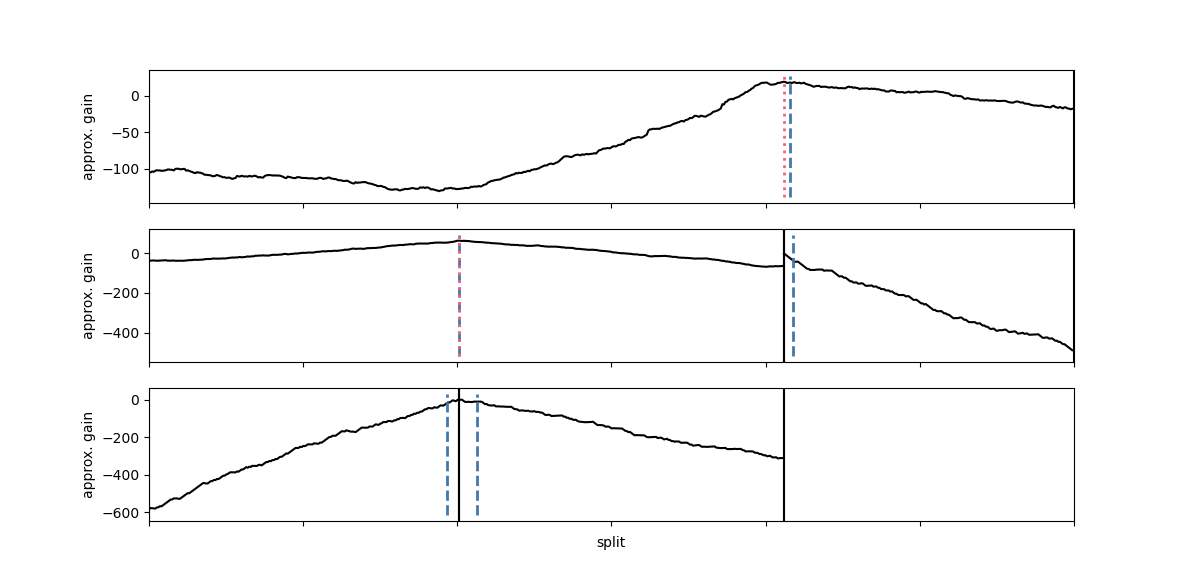
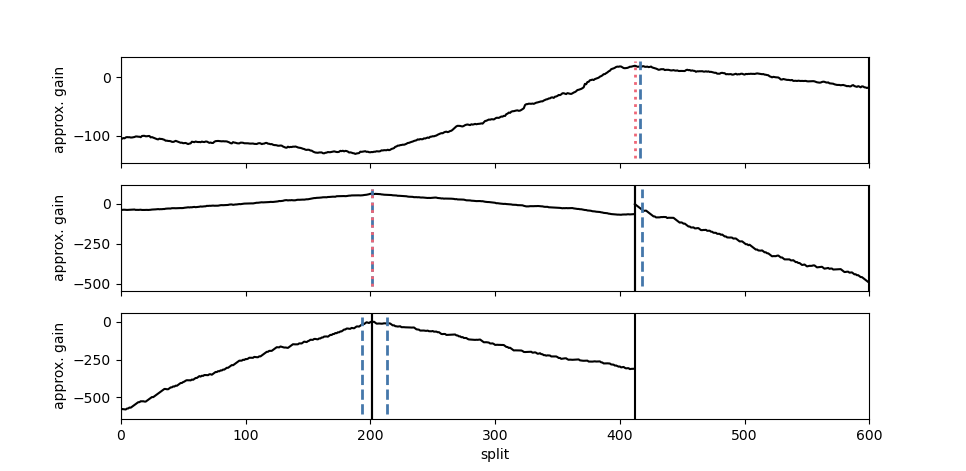
fix python plotting (#117)
* Fix bug.

* 0.7.1

diff --git a/changeforest-py/changeforest/plotting.py b/changeforest-py/changeforest/plotting.py
@@ -196,7 +196,7 @@ def _plot_binary_segmentation_result(binary_segmentation_result, max_depth=5):
         axes[idx].set_xlim(0, n)
         axes[idx].set_ylim(new_ymin, new_ymax)
         axes[idx].set_ylabel("approx. gain")
-        if idx < depth:
+        if idx < depth - 1:
             axes[idx].set_xticklabels([])
 
     axes[-1].set_xlabel("split")

diff --git a/CHANGELOG.md b/CHANGELOG.md
@@ -1,6 +1,12 @@
 
 # Changelog
 
+## 0.7.1 - (2022-05-02)
+
+**Bug fixes:**
+
+- Fixed a bug resulting in no tick-labels being shown on the x-axis when plotting a `BinarySegmentationResult`.
+
 ## 0.7.0 - (2022-04-08)
 
 **New features**:
